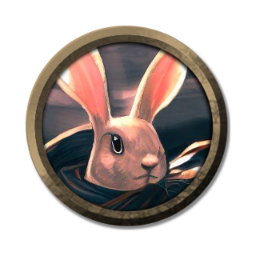
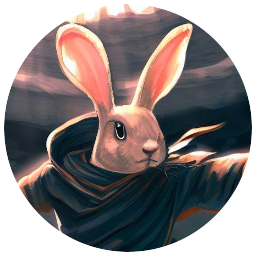
0.1

diff --git a/javascript/personajes.js b/javascript/personajes.js
@@ -8,7 +8,7 @@ var personajes = [
         Pese a que su padre terminó lisiado, Ash decidió perseguir a la criatura para darle caza, y así vengar al resto de su familia. 
         En su búsqueda encontró una pista, pues al parecer la vampira había pertenecido con anterioridad a la liga de aventureros de Triboar. Escuchando rumores de que se habría reinaugurado al sur de la costa, decidió unirse para reunir mayor información de su enemiga. 
         `,
-        "imagen": ""
+        "imagen": "ash.png"
     },
     {
         "nombre": "Barek",
@@ -20,7 +20,7 @@ var personajes = [
         A medida que Barek dominaba su poder mágico, su conexión con la montaña y sus habitantes se profundizaba. No obstante, el sosiego de Olimpo se vio interrumpido cuando su mentor, a través de estudios arcanos, detectó señales de problemas más allá de las montañas.
         Armado con su magia y su valor, Barek emprendió un viaje que lo llevaría más allá de las Sunset Mountains, hacia tierras desconocidas. Su corazón latía con la emoción de las historias que había escuchado, los lazos que había forjado y el anhelo de encontrar respuestas a sus preguntas más profundas. 
         `,
-        "imagen": ""
+        "imagen": "Barek.png"
     },
     {
         "nombre": "Bethany Reunant ",
@@ -33,7 +33,7 @@ var personajes = [
         Comenzó a dedicarse a descifrar los misterios de dicha revelación y así terminó recluyéndose en la más profunda soledad, perfilando su adoración a Ilmater.
         Habiendo dilucidado una verdad profunda sobre la maldición que asolaba a los suyos, decidió acabar con su aislamiento y dedicarse a ayudar a los demás. 
         `,
-        "imagen": ""
+        "imagen": "Bethany.png"
     },
     {
         "nombre": "Caín",
@@ -48,7 +48,7 @@ var personajes = [
             Le comenta, que lamentablemente no puede hacer nada para ayudarle, pero si estuviera dispuesto a ser "su paladín" le daría la fuerza para evitar que esto le vuelva a pasara nadie.
             Caín aceptó el trato, sin embargo una vida de burocracia no le dieron las habilidades de un guerrero y empezó un entrenamiento para poder cumplir con su cometido.
             Bastantes meses después, estaba listo para empezar su cruzada.        `,
-        "imagen": ""
+        "imagen": "cain.png"
     },
     {
         "nombre": "Cherry Berry",
@@ -67,7 +67,7 @@ var personajes = [
         "trasfondo": `
         Darkness es una noble de Neverwinter que practico esgrima aunque no es muy buena, pero su constitucion fisica la ayuda a aguantar bien los entrenamientos, por una revelacion de la diosa (Tymora) decidio haer un viaje para ayudar a la gente. Luego del cierre de la Liga su padre la llamo para encontrarle un marido pero escapo ya vaga por Costa de la espada ayudando a los que puede como huyendo de su deber como noble.
         `,
-        "imagen": ""
+        "imagen": "darkness.png"
     },
     {
         "nombre": "Eleanor Mistborn",
@@ -79,7 +79,7 @@ var personajes = [
         Jurando erradicar el mal y llevar a los responsables ante la justicia, Eleanor emprendió una peligrosa travesía de venganza y conquista. Armada con nuevas habilidades divinas, persigue su causa sin importarle a quién se enfrente  y buscando aliados entre aquellos que comparten su propósito.
         En su búsqueda de justicia. Su sed de venganza y redención la ha transformado en una persona llena de rencor y frustración, pero también en una fuerza imparable que lucha por su propia justicia.
         Eleanor Mistborn, la ex-noble que una vez protegió a los inocentes y abogó por la virtud, ahora es una cascara de su antiguo pasado, guiada por el hambre implacable de lograr justicia para sí misma.        `,
-        "imagen": ""
+        "imagen": "eleanor.png"
     },
     {
         "nombre": "Elurico Pantierno",
@@ -88,7 +88,7 @@ var personajes = [
         "trasfondo": `
         Elurico se las había apañado sólo desde muy temprana edad:  Sus padres, Ambos panaderos e hijos de panaderos murieron a causa de una epidemia. Solía entrar y salir de templos y hospicios por puertas, ventanas, cañerías  y demás. Con una mente inquieta y siempre buscando un propósito en su vida con 14 años dio con unos monjes de la orden de la misericordia y lo vio claro.  Después de años de intenso entrenamiento por fin está listo para el mundo...O eso cree.  Así que después de  dejar el monasterio se dirigió hacia la Liga de Aventureros donde espera encontrarse con su amiga Jenna, básicamente porque fue él el que la convenció para unirse en primer lugar
         `,        
-        "imagen": ""
+        "imagen": "elurico.png"
     },
     {
         "nombre": `Erelrana "Erel" Baenré`,
@@ -96,7 +96,7 @@ var personajes = [
         "raza": "Tiefling",
         "trasfondo": `
         Cuando tenía 6 años  un grupo de humanos la atacó  y la mutilaron. Entonces no tiene su cola y sus cuernos están dañados. Fue salvada por aventureros, principalmente por un druid drow. Viajaba con ellos por un año, pero luego el otro elfo del grupo la llevó a su aldea pequeña rodeada por bosques para que tuviera una niñez más tranquila y normal.        `,        
-        "imagen": ""
+        "imagen": "erel.png"
     },
     {
         "nombre": `Fiona Prince`,
@@ -108,7 +108,7 @@ var personajes = [
         La tomaron prisionera, pero Fiona estaba contenta, ya que en su interior sabía que había sido ascendida al puesto de meditante. Y así pasó 10 años "meditando" en una celda de 10x10. 
         Cuando terminó su condena, volvió a la liga de aventureros. Aunque se demoró un poco en llegar ya que ésta había cambiado de ubicación.
         `,
-        "imagen": ""
+        "imagen": "fiona.png"
     },
     {
         "nombre": `Gimmiv`,
@@ -117,7 +117,7 @@ var personajes = [
         "trasfondo": `
         Gimmiv luchaba por sobrevivir en un mundo hostil. Sin nadie que lo cuidara, se vio obligado a robar para alimentarse. Pero un día, un enigmático ladrón lo descubrió en pleno acto. En lugar de castigarlo, lo entrenó en las artes del sigilo y la astucia. Ahora, Gimmiv es un habilidoso ladrón, pero su corazón anhela encontrar un lugar donde pertenecer. 
         `,
-        "imagen": ""
+        "imagen": "gimmiv.png"
     },
     {
         "nombre": `Kilthom`,
@@ -128,7 +128,7 @@ var personajes = [
         Tras la muerte del noble y la enfermedad repentina de sus padres, Kilthom se convirtió en consejero del hijo del noble, pero fue despedido debido a los celos del nuevo noble. Sin posición, enfrentó una nueva vida buscando trabajos diversos para sobrevivir.
         En busca de un nuevo propósito, Kilthom escuchó sobre un grupo que planeaba formar un equipo de aventureros para ayudar a la gente local. Determinado a contribuir, se unió al grupo en busca de una oportunidad para marcar la diferencia en el mundo.
         `,
-        "imagen": ""
+        "imagen": "kilthom.png"
     },
     {
         "nombre": `Kund Argenthrixus`,
@@ -141,7 +141,7 @@ var personajes = [
         Ahora esta decidido a aprobechar esta segunda vida y combinar los conocimientos de su vida anterior asi como las habilidades de su cuerpo actual para convertirse en un aventurero. 
         Por alguna razon tambien kund tiene una especie de reverencia o tal vez sea una obsesion con los dragones gema,  asi como los conjuros y objetos relacionados con los dragones. 
         `,
-        "imagen": ""
+        "imagen": "kund.png"
     },
     {
         "nombre": `Rak'tar`,
@@ -150,7 +150,7 @@ var personajes = [
         "trasfondo": `
         Rak'tar fue criado por su madre, una humana que en un largo viaje tuvo una aventura con un orco de la zona. A pesar de no tener figura paterna respaldándolo aprendió todas las costumbres humanas y se le enseño de pequeño a proteger al mas débil, así como a seguir el bien en su vida. A los 10 años un grupo de bandidos asaltan su pueblo, asesinan a su madre y lo venden a un amo del coliseo. El de forma muy cruel (pero eficiente) le enseña el uso de todo tipo de armas y lo vuelve la estrella del coliseo. Asesino de forma implacable y a sangre fría a un sinfín de contrincantes por 11 años su arma favorita era el martillo de guerra el cual llego a masterizar por completo. Un día se rebela contra su maestro y lo asesina con el látigo que usaba para "corregirlo", escapa del coliseo y eventualmente del país en el que estaba preso. Se promete a si mismo usar el conocimiento en asesinar que se le enseño a la fuerza para el bien y en el proceso hacer de su vida algo mejor.
         `,
-        "imagen": ""
+        "imagen": "rak.png"
     },
     {
         "nombre": `Ryu`,
@@ -159,7 +159,7 @@ var personajes = [
         "trasfondo": `
         Ryu Lion, elfa nacida en Evermeet, criada como Guerrera, bendecida por las hadas, pasaba sus días tranquilos y felices en la pequeña villa donde vivía, pero un día donde su grupo de aventureros salieron a cazar, otro grupo acabó con el suyo dejandola a ella viva, para luego de descansar tramo su venganza contra ellos matándolos una noche de tormenta, donde un guardia la vio cubierta de sangre y se le acuso de asesinato, escapando así de allí, tomando un barco que salía a Costa de la espada, donde deambula por años trabajando de cazadora de recompensas, donde con el tiempo llego a la Liga de aventureros para ayudar a los necesitado y ver si así limpia sus manos cubiertas de sangre, haciendo nuevas amigas las cuales les agarro mucho cariño, viajando con ellas cuando la Liga cerro, llegando nuevamente al ver que otra vez se le necesitaba para ayudar en la Liga.
         `,
-        "imagen": ""
+        "imagen": "ryu.png"
     },
     {
         "nombre": `Tear`,
@@ -168,7 +168,7 @@ var personajes = [
         "trasfondo": `
         Tear creció en un orfanato manejado por gente del clero de Valkur donde pasaba la mayoría de su tiempo, al ser un chico bastante reservado no llego a captar la atención de las familias dispuestas a adoptar que pasaban en busca de criar a un chico, así termino invirtiendo la mayoría de su tiempo en las enseñanzas del mentor Ron, un humano de avanzada edad que pasaba la mayoría de su tiempo enseñándole a leer, relatándole historias sobre las acciones heroicas que sus hermanos devotos habían tenido en algún momento, gracias a sus enseñanzas decidió tomar el riesgo y volverse de igual forma un clérigo devoto de Valkur y busco participar en incursiones en altamar pero al crecer tuvo que abandonar su sueño de viajar en grandes embarcaciones ya que en una pelea con unos ladrones de los cuales tuvo que intervenir perdió uno de sus ojos tratando de defender a un niño que pasaba por el camino, decidió quedarse a las orillas de su pequeño pueblo pesquero añorando el océano y perfeccionándose como clérigo para dar la bendición a los marineros de su pueblo, los cuales empezaron a agarrarle cariño como la joven esperanza de su pequeño pueblo en medio de la nada. No se sabe cuando fue que la paz se empezó a acabar pero Tear siento la necesidad de responder el llamado a una aventura diferente, confiado de dejar a su pueblo bien cuidado y de pedir la bendición de su mentor Ron, partió con 24 años buscando una forma para resolver los problemas de las personas, así tal vez encontraría sentido en una vida a pie.
         `,
-        "imagen": ""
+        "imagen": "tear.png"
     },
     {
         "nombre": `Vesta`,
@@ -179,7 +179,7 @@ var personajes = [
         Desde alli, la historia aclimata un poco, siendo Vesta la mayor, pero la menos experimentada de las hermanas, tuvo que asumir el rol de cuidadora, de guardiana, del Fuego Eterno que iluminaba su casa y su ciudad, pero anhelaba salir, conocer el mundo, vivir las odiseas de sus hermanos y hermanas, y anhelaba tener una familia real, sus hermanos le querian, pero estaban mas enfocados en ellos, y los campeones y subditos que acogian bajo sus estardantes, Vesta siendo la unica por su rol, quien permanecia sola.
         Cuando sus hermanos y hermanas empezaron a explorar otros planos en busca de aventuras y entretenimiento, Vesta se harto, y decidio bajar al mundo inferior, o bueno, Toril, en busca de crear una Familia, un grupo de personas bendecidas por ella que compartieran sus aventuras y experiencias con ella, trabajando de taberna en taberna y trabajo en trabajo con esperanzas de encontrar su Familia propia, alli, se encontro con Agatha, la primer miembro de su familia, y Ryuu, una elfa a la que acogio despues de multiples encuentros, ahora, despues de varios años, han decidido volver a la Liga, dispuestas a ayudar, y expandir aun mas su clan.
         `,
-        "imagen": ""
+        "imagen": "vesta.png"
     },
     {
         "nombre": `Weston`,
@@ -191,6 +191,6 @@ var personajes = [
         Con el tiempo, Weston se convierte en un acólito de Selûne, quien lo llevo hasta la antigua Liga de Aventureros. Pero luego de su disolucion empezo a trabajar en una capilla donde se ve involucrado en actividades delictivas debido a la corrupción. Con el poder adquirido al pasar los años, se vuelve un líder temido. Tras perder a un amigo cercano en una guerra mafiosa, cambia su rumbo y busca la bendición de Selûne. Sin embargo, su organización se rebela contra él y huye en busca de redención.
         Después de vagar, Weston escucha sobre un grupo que busca ayudar a personas desaparecidas cerca de Baldur's Gate, liderado por alguien de su pasado. Decide unirse al grupo para enmendar su pasado y llevar a cabo acciones benéficas. Siente que las estrellas lo guían en un nuevo viaje hacia el bien
         `,
-        "imagen": ""
+        "imagen": "weston.png"
     },
 ];

diff --git a/CSS/estilo.css b/CSS/estilo.css
@@ -39,6 +39,7 @@ body{
 
 .bajoBarra{
     margin-top: 100px !important;
+    margin-bottom: 100px !important;
 }
 
 .fondo2{
@@ -239,7 +240,6 @@ body{
 }
 
 
-
 .accordion{
     background-color: transparent !important;
     color: white !important;
@@ -282,6 +282,7 @@ body{
 
 .letraSeccion{
     font-size: 1.5em;
+    color: #b41b1d !important;
 }
 
 :focus {
@@ -302,3 +303,8 @@ body{
   .tituloPJ{
     font-size: 1.25em;
   }
+
+.tokenpjs{
+    width: 300px;
+    margin-left: 5%;
+}

diff --git a/javascript/onloads.js b/javascript/onloads.js
@@ -110,7 +110,7 @@ window.onload = function() {
                   <p>${personaje.trasfondo}</p>
                 </div>
                 <div class="w25">
-                  ${personaje.imagen ? `<img class="token " src="imagen_pj/${personaje.imagen}" alt="">` : ''}
+                  ${personaje.imagen ? `<img class="token tokenpjs" src="imagen_pj/${personaje.imagen}" alt="">` : ''}
                 </div>
               </div>
             </div>

diff --git a/index.html b/index.html
@@ -16,9 +16,9 @@
     <script src="javascript/personajes.js"></script>
     <script src="javascript/pnj.js"></script>
 
-    <link rel="icon" type="image/x-icon" href="media/favicon.ico">
+    <link rel="shortcut icon" href="media/favicon.ico" type="image/x-icon">
+    <link rel="icon" href="media/favicon.ico" type="image/x-icon"></head>
 
-</head>
 <body>
 
     
